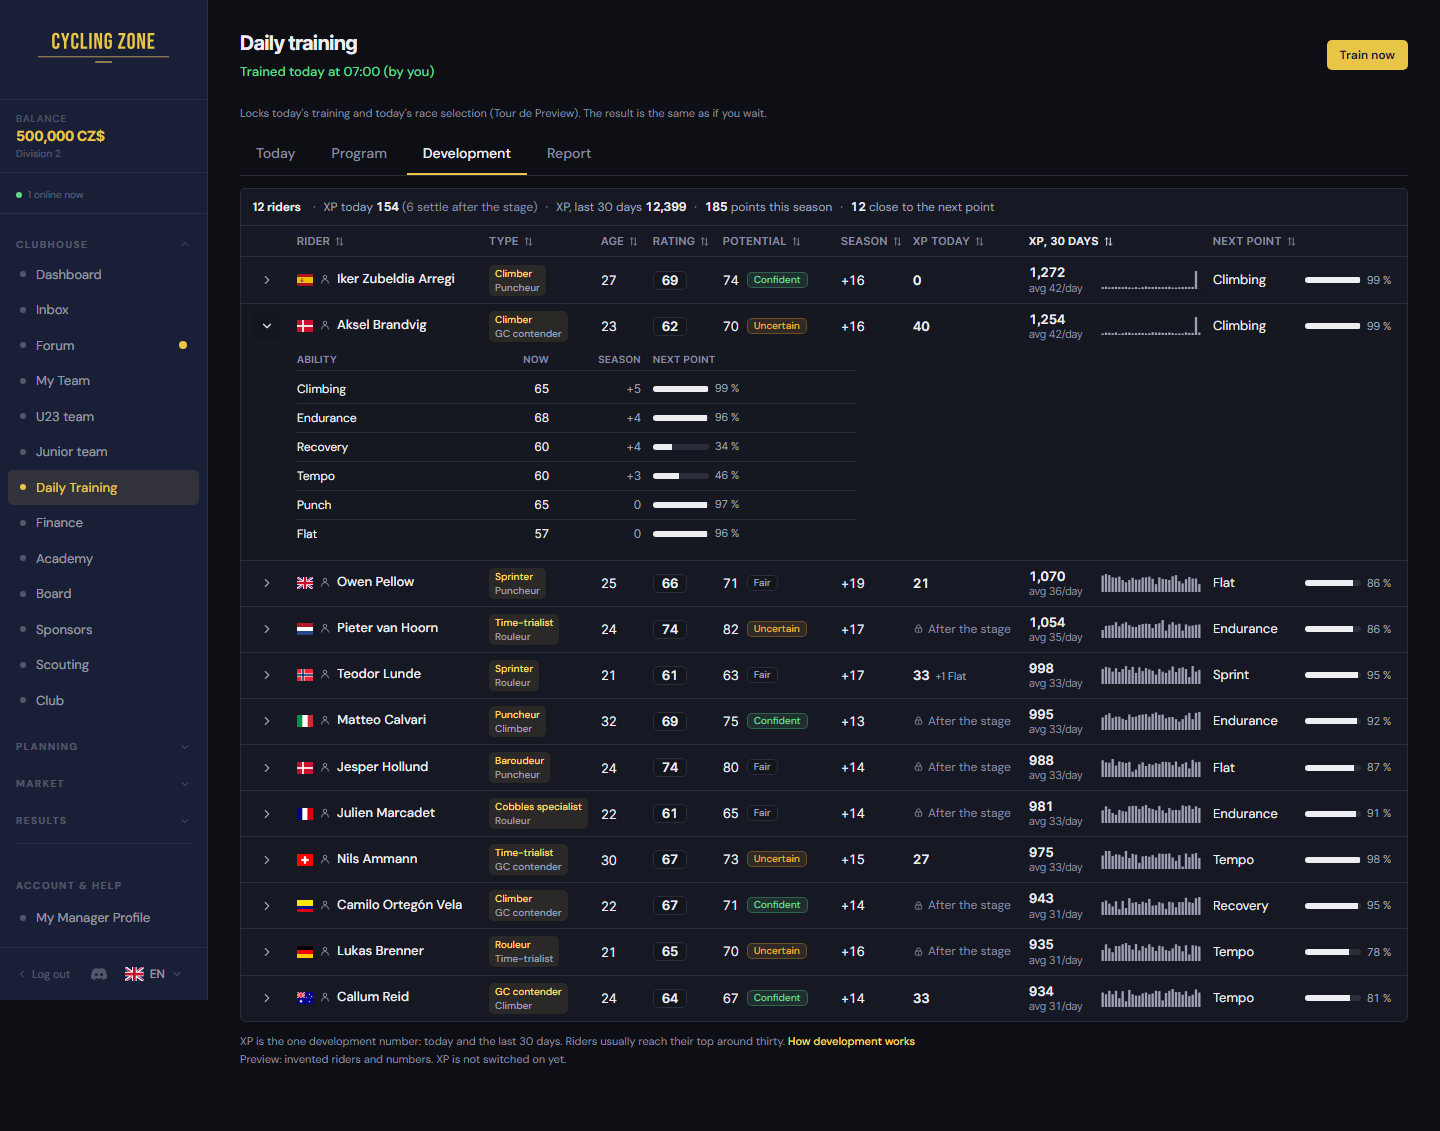
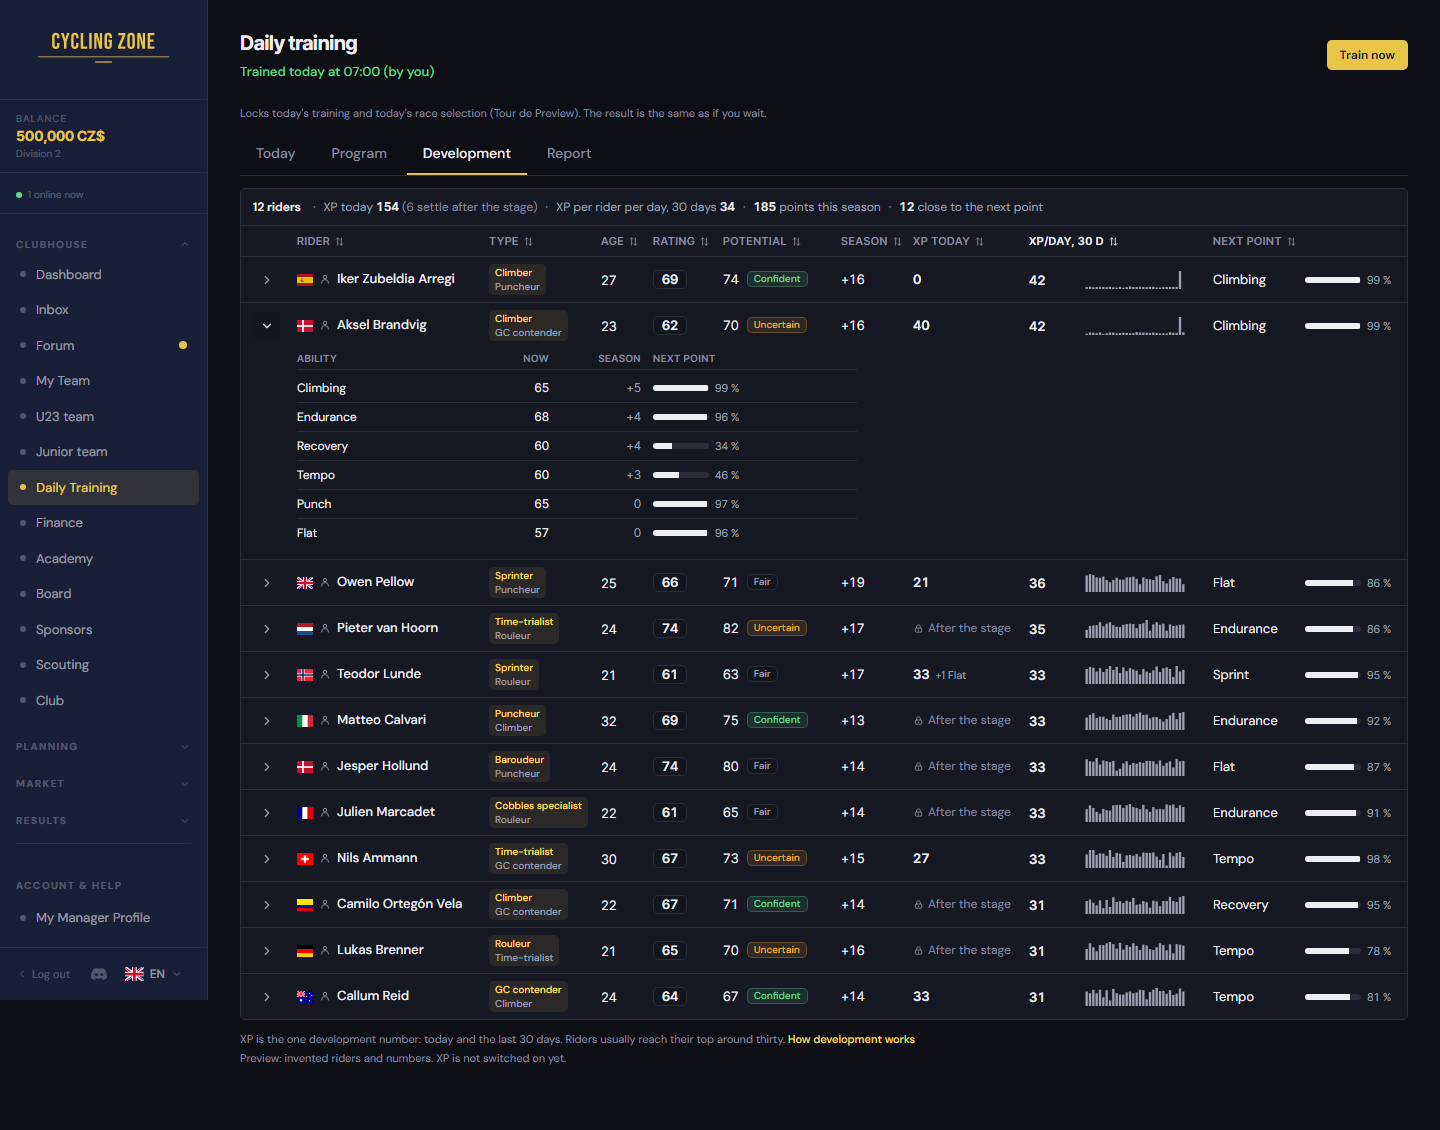
feat(7947): XP pr. dag (snit 30 dage) i stedet for summen over 30 dage (ejer 19/11, Refs #7947)
Kolonnen viser gennemsnittet pr. dag, og linjen over tabellen viser snit pr. rytter pr. dag.

diff --git a/frontend/src/components/training/DevelopmentTabXp.tsx b/frontend/src/components/training/DevelopmentTabXp.tsx
@@ -72,7 +72,8 @@ export default function DevelopmentXpSwitch({ runs, roster, estimateFor, seasonG
 }
 
 const NUM = "font-data tabular-nums";
-// Ejer 19/11: XP de sidste 30 dage viser ogsaa gennemsnittet pr. dag (hele tal som al XP i visningen).
+// Ejer 19/11: summen over 30 dage er uoverskuelig; kolonnen viser gennemsnittet pr. dag (hele tal).
+const XP_WINDOW_DAYS = 30;
 const xpAvgPerDay = (row: { xp30: number; spark: readonly number[] }) => Math.round(row.xp30 / Math.max(1, row.spark.length));
 const HEAD = "font-data text-2xs font-semibold uppercase tracking-[.06em] text-cz-3";
 const LABEL = "mb-1 font-data text-3xs font-semibold uppercase tracking-[.06em] text-cz-3";
@@ -142,7 +143,7 @@ function TitleLine({ summary }: { summary: ReturnType<typeof devSummary> }) {
       <span>{t("developmentXp.xpToday")} <span className={strong}>{formatNumber(summary.xpToday)}</span>
         {summary.unsettled > 0 && <span className="text-cz-3"> {t("developmentXp.unsettled", { count: summary.unsettled })}</span>}</span>
       {dot}
-      <span>{t("developmentXp.xp30")} <span className={strong}>{formatNumber(summary.xp30)}</span></span>
+      <span>{t("developmentXp.xp30")} <span className={strong}>{formatNumber(Math.round(summary.xp30 / XP_WINDOW_DAYS / Math.max(1, summary.riders)))}</span></span>
       {dot}
       <span><span className={strong}>{summary.seasonPoints != null ? formatNumber(summary.seasonPoints) : "—"}</span> {t("developmentXp.seasonPoints")}</span>
       {dot}
@@ -301,10 +302,7 @@ function DesktopTable({ rows, open, toggle, sort, onSort }: { rows: DevRow[]; op
                 <td className="px-3 py-[7px]"><XpToday cell={row.today} /></td>
                 <td className="px-3 py-[7px]">
                   <span className="inline-flex items-center gap-2">
-                    <span className="w-16 leading-tight">
-                      <span className={`block text-[13px] font-semibold text-cz-1 ${NUM}`}>{formatNumber(row.xp30)}</span>
-                      <span className={`block whitespace-nowrap text-2xs text-cz-3 ${NUM}`} data-testid="development-xp-avg">{t("developmentXp.avgPerDay", { value: formatNumber(xpAvgPerDay(row)) })}</span>
-                    </span>
+                    <span className={`w-12 text-[13px] font-semibold text-cz-1 ${NUM}`} data-testid="development-xp-avg">{formatNumber(xpAvgPerDay(row))}</span>
                     <Spark row={row} />
                   </span>
                 </td>
@@ -347,10 +345,7 @@ function PhoneList({ rows, open, toggle }: { rows: DevRow[]; open: Set<string>; 
               <div className={`grid min-h-11 w-full items-center gap-2 px-3 py-2 ${PHONE_GRID} ${o ? "bg-cz-subtle/60" : ""}`}>
                 <Name row={row} short />
                 <span><Rating value={row.rating} /></span>
-                <span className="leading-tight">
-                  <span className={`block text-[13px] font-semibold text-cz-1 ${NUM}`}>{formatNumber(row.xp30)}</span>
-                  <span className={`block whitespace-nowrap text-2xs text-cz-3 ${NUM}`}>{t("developmentXp.avgPerDay", { value: formatNumber(xpAvgPerDay(row)) })}</span>
-                </span>
+                <span className={`text-[13px] font-semibold text-cz-1 ${NUM}`}>{formatNumber(xpAvgPerDay(row))}</span>
                 <button type="button" onClick={() => toggle(row.id)} aria-expanded={o} aria-label={t("developmentXp.openAbilities", { name: row.name })}
                   className="flex min-h-11 items-start justify-between gap-1 text-start text-xs">
                   {row.next
